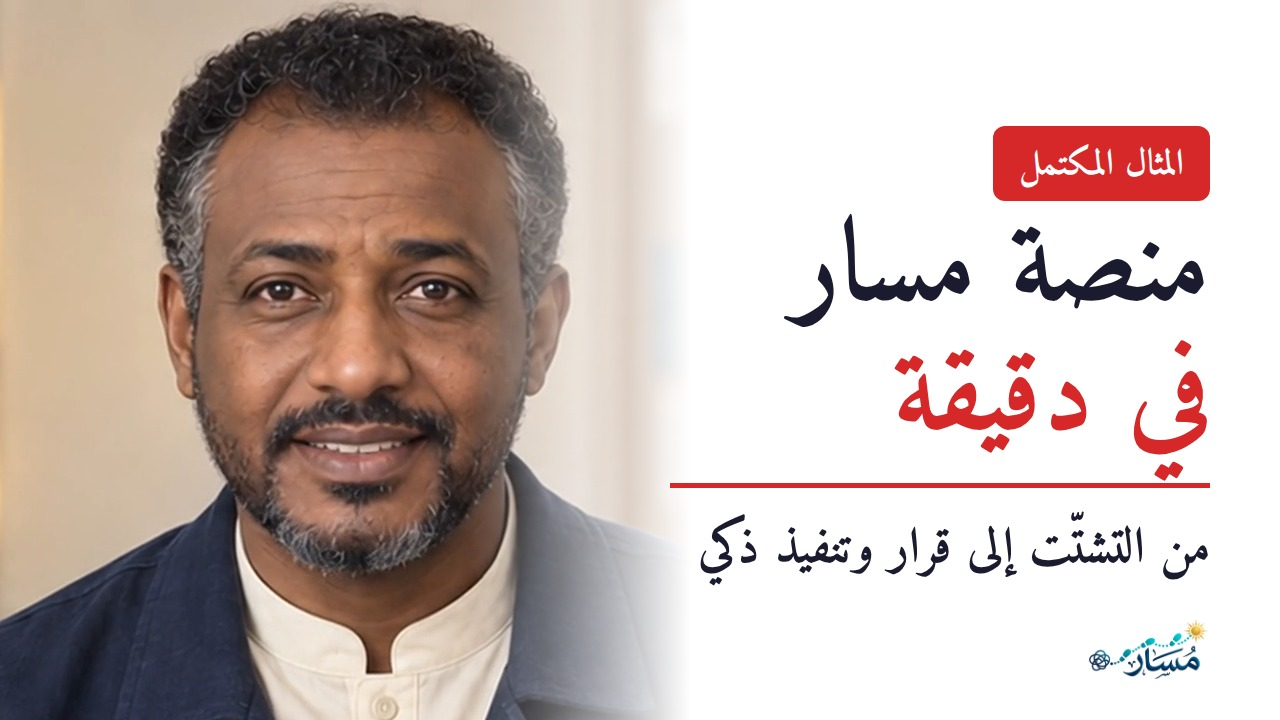
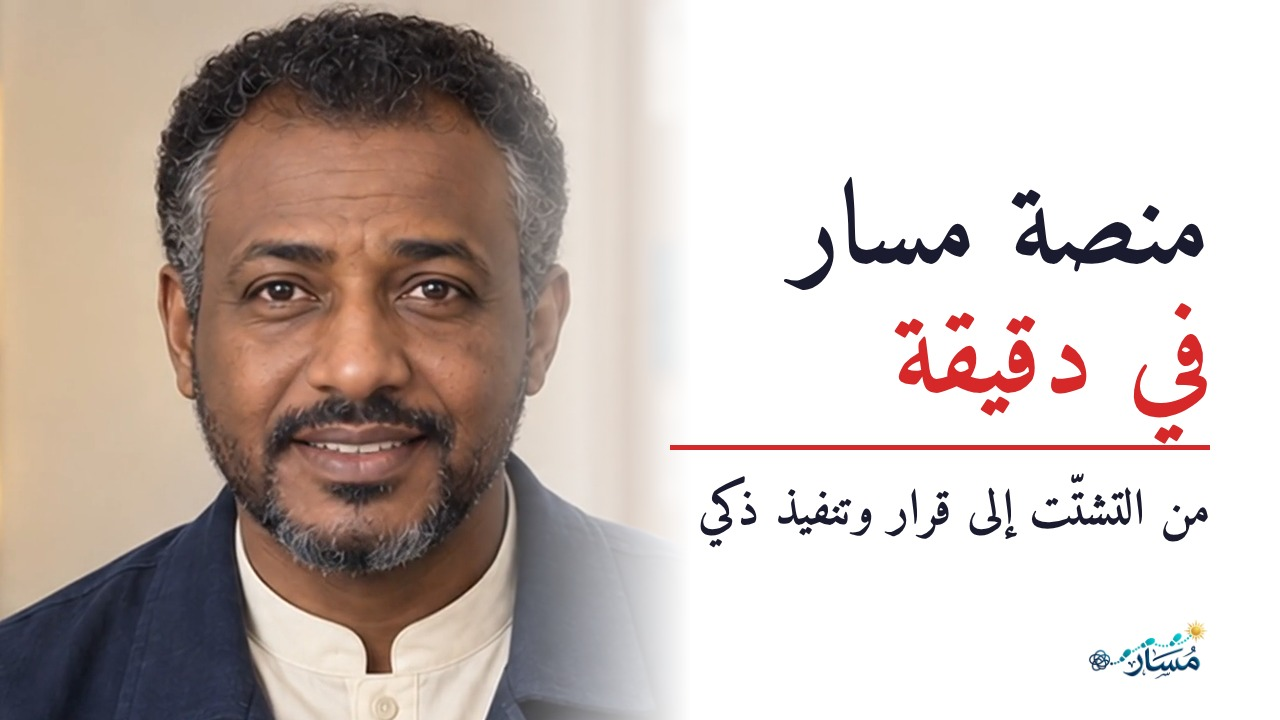
غلاف شرح المنصة بلا شارة + سجل (77)

Changed region(s): [[0.5312, 0.1528, 0.9688, 0.825]]

diff --git a/index-data.js b/index-data.js
@@ -4,7 +4,7 @@ const IDX = {
   updated: "12 أكتوبر 2026",
   now: {
     title: "حقيبة «مسار الفيديو» — الوحدة 5 (المونتاج والإضافات)",
-    detail: "الوحدات 1 إلى 4 مكتملة · <b>الوحدة 5 مكتملة إنتاجًا</b> (منشورة https://youtu.be/7D9rI0Xa_Ec، وPDF 16 صفحة، وquiz.md، وبطاقة الصفحة) · <b>ينتظر اعتماد صاحب المشروع</b>: ملف PDF والأسئلة، وغلاف فيديو شرح المنصة publish/youtube/explainer.jpg (يرفعه صاحب المشروع على GPbJWu1XMm4 بعد الاعتماد) · التالي: الوحدة 6 (التحقق والنشر) في محادثة إنتاج جديدة."
+    detail: "الوحدات 1 إلى 4 مكتملة · <b>الوحدة 5 مكتملة إنتاجًا</b> (منشورة https://youtu.be/7D9rI0Xa_Ec، وPDF 16 صفحة، وquiz.md، وبطاقة الصفحة) · غلاف فيديو شرح المنصة publish/youtube/explainer.jpg بلا شارة (يُستخدم للحقيبتين)، يرفعه صاحب المشروع على GPbJWu1XMm4 · <b>ينتظر اعتماد صاحب المشروع</b>: ملف PDF والأسئلة · التالي: الوحدة 6 (التحقق والنشر) في محادثة إنتاج جديدة."
   },
   resume: `<p style="margin:0">1. اقرأ «نقطة العمل الحالية» أعلاه. 2. افتح تبويب «خارطة الطريق» لترى موقعنا. 3. قل في المحادثة: <b>«اقرأ الإندكس ونكمل من نقطة التوقف»</b>.</p>`,
   road: [
@@ -179,6 +179,7 @@ const IDX = {
 </table>` }
     ]},
     { t: "سجل التحديثات", items: [
+      { h: "12 أكتوبر 2026 (77)", d: "الإصدار 1.9", b: `<b>غلاف فيديو شرح المنصة — تعديل صاحب المشروع</b>: حُذفت شارة «المثال المكتمل» لأن الفيديو يُستخدم أيضًا في حقيبة المسار المجانية · make_thumbnail.py: نص الشارة الفارغ يخفيها (unit-5.jpg ما زالت مطابقة بكسلًا بكسلًا) · publish/youtube/explainer.jpg محدّث: «منصة مسار / في دقيقة» و«من التشتّت إلى قرار وتنفيذ ذكي».` },
       { h: "12 أكتوبر 2026 (76)", d: "الإصدار 1.9", b: `<b>غلاف فيديو شرح المنصة</b> (GPbJWu1XMm4، أكّده صاحب المشروع بلقطة من آخر صفحة الحقيبة): publish/youtube/explainer.jpg بـ make_thumbnail.py · الصورة لقطة 3.2 ث من media/masar-explainer-v1.mp4 مقصوصة فوق الترجمة المحروقة (publish/youtube/explainer-still.png، قص 376) · الشارة «المثال المكتمل»، والعنوان «منصة مسار / في دقيقة» (الفيديو 52.6 ث)، والسطر الفرعي «من التشتّت إلى قرار وتنفيذ ذكي» · make_thumbnail.py: الشارة تقبل نصًا غير رقمي (متوافق مع السابق؛ unit-5.jpg أُعيد توليدها مطابقة بكسلًا بكسلًا) · <b>ينتظر اعتماد صاحب المشروع</b>.` },
       { h: "12 أكتوبر 2026 (75)", d: "الإصدار 1.9", b: `<b>الوحدة 5 — ملف PDF والأسئلة والصفحة</b>: packages/video/unit-5/build_pdf.py ← resources/video/video-unit-5.pdf (16 صفحة، 35 حقلًا قابلًا للتعبئة؛ البطاقات الست من spec.json، والإضافات الثماني، وصفحة لكل إضافة، والتصدير والحفظ، و<b>درس «راجع مسودة ثابتة قبل أن تدفع مقابل التحريك»</b> بأرقام الوحدة 5 المقاسة، والبرومبت، والأخطاء، وقائمة التحقق، وورقة عمل الإضافات والتراخيص) · فُحصت الصفحات كلها بالعين · quiz.md (5 أسئلة، النجاح 80%) · بطاقة الوحدة 5 في video-package.html (الفيديو 7D9rI0Xa_Ec وملف PDF).` },
       { h: "12 أكتوبر 2026 (74)", d: "الإصدار 1.9", b: `<b>الوحدة 5 منشورة على يوتيوب</b>: https://youtu.be/7D9rI0Xa_Ec (غير مدرج) · أُضيفت إلى جدول «الفيديوهات المنشورة» وإلى publish/youtube/unit-5.md · الصورة المصغرة unit-5.jpg رُفعت على يوتيوب (أكّده صاحب المشروع).` },

diff --git a/studio/make_thumbnail.py b/studio/make_thumbnail.py
@@ -8,7 +8,8 @@ from PIL import Image
 R = os.path.dirname(os.path.abspath(__file__))
 def main(photo, n, l1, l2, sub, out, crop_x='40'):
     cx = int(crop_x); d = tempfile.mkdtemp()
-    badge = f'الوحدة {n}' if str(n).isdigit() else n  # نص غير رقمي يُعرض كما هو (مثل: المثال المكتمل)
+    badge = f'الوحدة {n}' if str(n).isdigit() else n  # نص غير رقمي يُعرض كما هو، والنص الفارغ يخفي الشارة
+    bdiv = f'<div class="b">{badge}</div>' if badge else ''
     fs = min(138, int(138 * 7.5 / max(len(l1), len(l2), 1)))  # سطر واحد لكل جزء، يصغر الخط مع الطول
     im = Image.open(photo).convert('RGB'); s = 720 / im.height; im = im.resize((int(im.width * s), 720))
     im.crop((cx, 0, cx + 720, 720)).save(f'{d}/p.png')
@@ -26,7 +27,7 @@ body{{margin:0;width:1280px;height:720px;overflow:hidden;background:#fff;positio
 .s{{font-family:A;font-size:50px;color:#1B1B2F}}
 .logo{{position:absolute;right:70px;bottom:40px;height:62px}}
 </style></head><body><div class="ph"></div><div class="fade"></div>
-<div class="tx"><div class="b">{badge}</div><div class="h">{l1}<br><span>{l2}</span></div><div class="ln"></div><div class="s">{sub}</div></div>
+<div class="tx">{bdiv}<div class="h">{l1}<br><span>{l2}</span></div><div class="ln"></div><div class="s">{sub}</div></div>
 <img class="logo" src="file://{R}/assets/logo.png"></body></html>'''
     open(f'{d}/t.html', 'w', encoding='utf-8').write(html)
     from playwright.sync_api import sync_playwright
